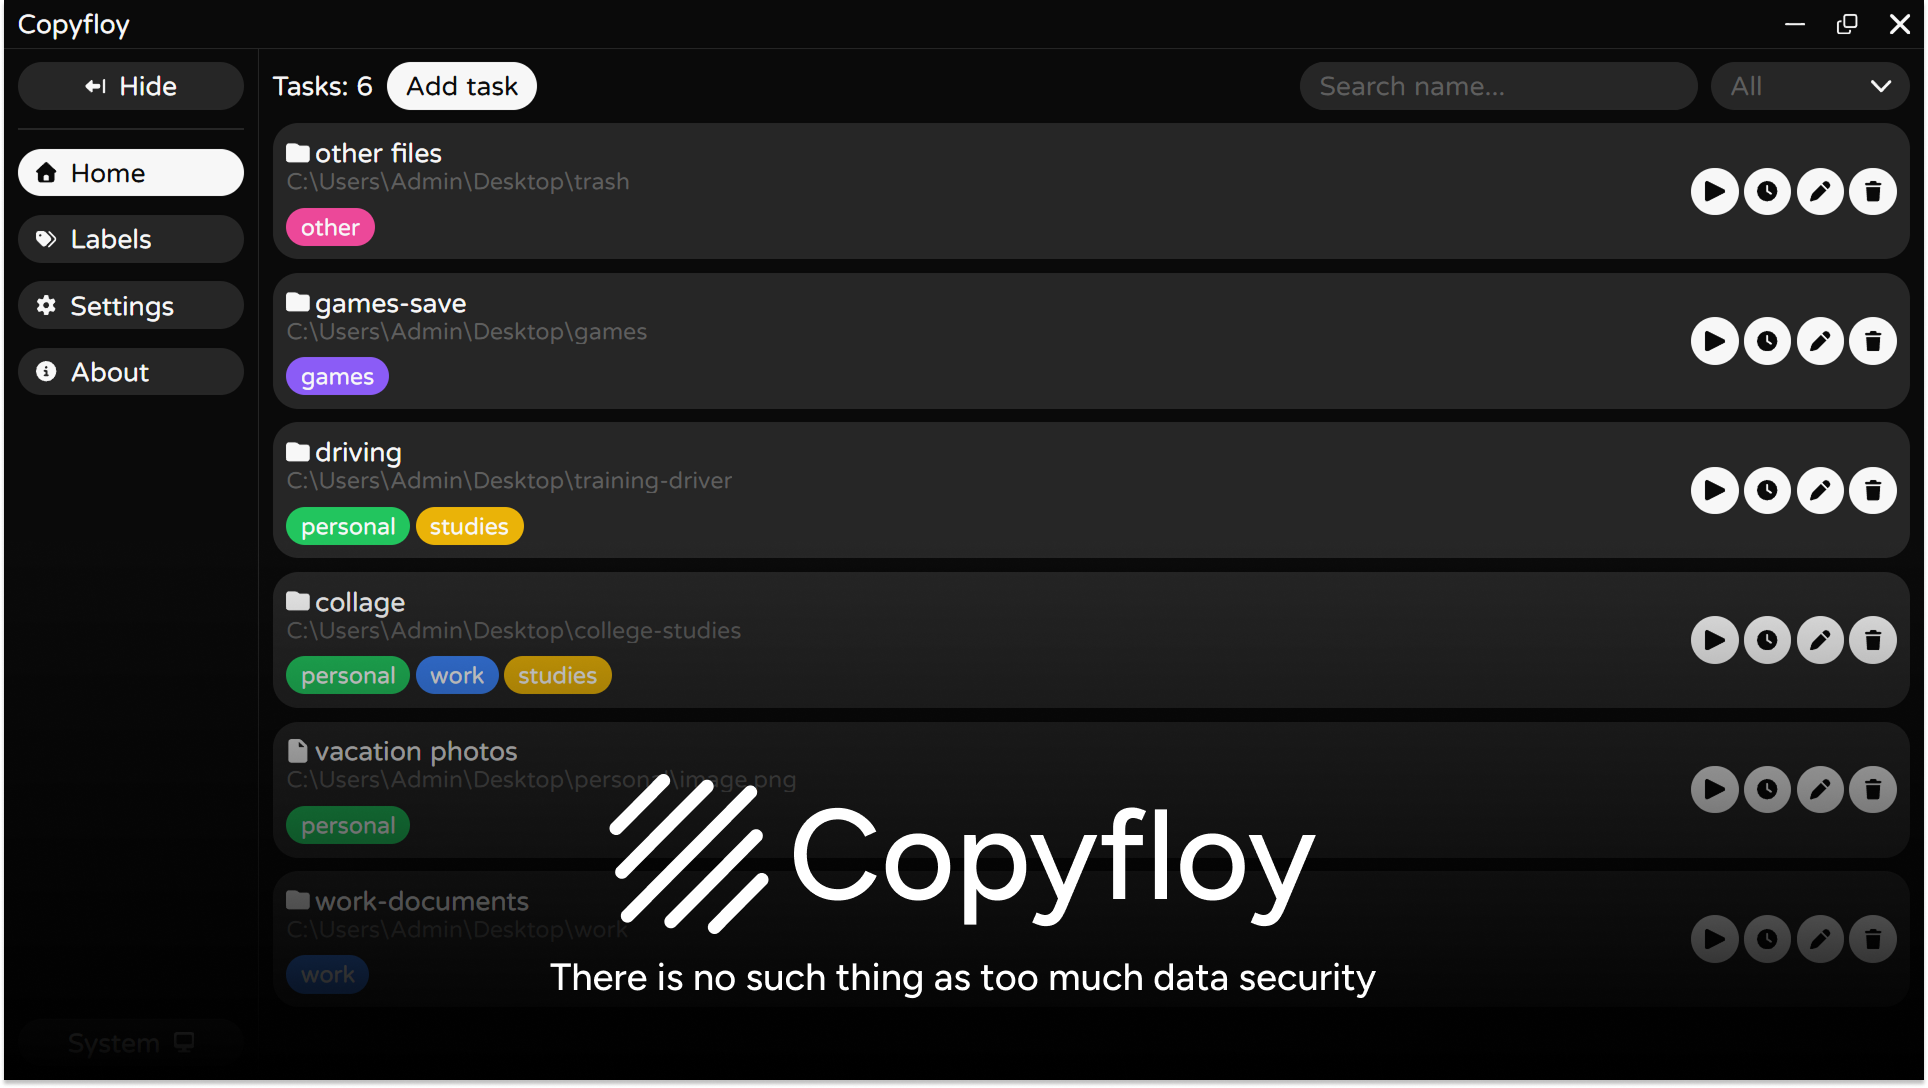
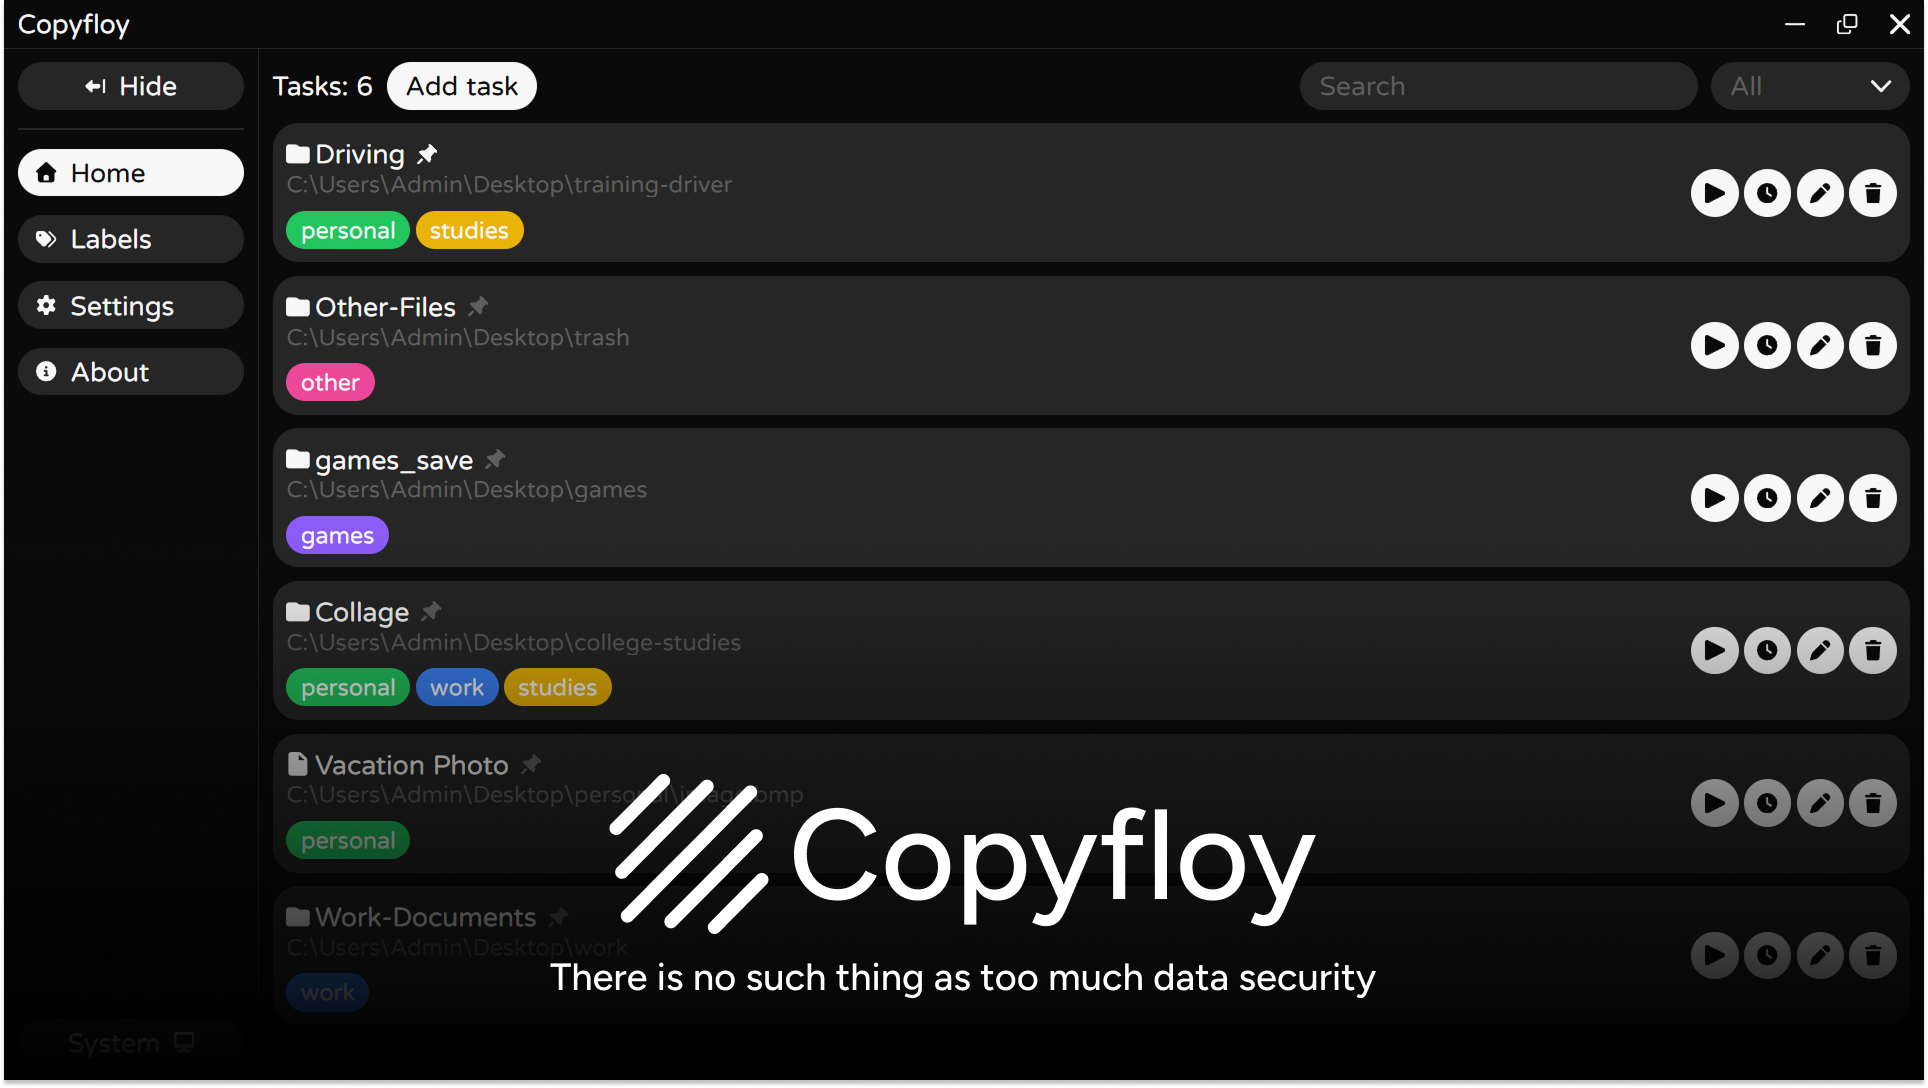
Tasks pinned (#13)
* feat(task): taskStorage improvements:
- added task pinning
- adding common types for pinning tasks
- removed transfer version

* feat(icons): add pin icon

* feat(): added task pinning functionality:
- added a new task update parameter to the `useTasks` hook
- added a task pinning button
- updated task list sorting to account for pinned tasks

* fix: sorting tasks by pinning status

* docs: update readme image

diff --git a/src/renderer/src/pages/Home/components/TaskList/index.tsx b/src/renderer/src/pages/Home/components/TaskList/index.tsx
@@ -6,24 +6,28 @@ import { TaskItem } from "../TaskItem";
 import styles from "./TaskList.module.css";
 import { ITaskList } from "./TaskList.types";
 
-export const TaskList: FC<ITaskList> = ({ items, labels, onRun, onSchedule, onEdit, onDelete }) => {
+export const TaskList: FC<ITaskList> = ({ items, labels, onRun, onSchedule, onEdit, onDelete, onPin }) => {
   if (items.length === 0) {
     return <NoData title="No tasks" icon={<CloneIcon />} />;
   }
 
   return (
     <div className={styles.container}>
-      {items.toReversed().map((item) => (
-        <TaskItem
-          key={item.id}
-          task={item}
-          labels={labels.filter((label) => item.labelsIds?.includes(label.id))}
-          onRun={() => onRun(item)}
-          onSchedule={() => onSchedule(item)}
-          onEdit={() => onEdit(item)}
-          onDelete={() => onDelete(item)}
-        />
-      ))}
+      {items
+        .toReversed()
+        .sort((first, second) => Number(Boolean(second.isPinned)) - Number(Boolean(first.isPinned)))
+        .map((item) => (
+          <TaskItem
+            key={item.id}
+            task={item}
+            labels={labels.filter((label) => item.labelsIds?.includes(label.id))}
+            onRun={() => onRun(item)}
+            onSchedule={() => onSchedule(item)}
+            onEdit={() => onEdit(item)}
+            onDelete={() => onDelete(item)}
+            onPin={() => onPin(item)}
+          />
+        ))}
     </div>
   );
 };

diff --git a/src/renderer/src/pages/Home/components/TaskItem/index.tsx b/src/renderer/src/pages/Home/components/TaskItem/index.tsx
@@ -1,6 +1,6 @@
 import { Button } from "@app/ui/Button";
 import { ButtonKind } from "@app/ui/Button/Button.types";
-import { ClockIcon, FileIcon, FolderIcon, PenIcon, PlayIcon, TrashIcon } from "@app/ui/Icons";
+import { ClockIcon, FileIcon, FolderIcon, PenIcon, PinIcon, PlayIcon, TrashIcon } from "@app/ui/Icons";
 import { LabelChip } from "@app/ui/LabelChip";
 import { ITaskItem, TaskType } from "@shared/types/tasks";
 import type { FC } from "react";
@@ -12,7 +12,7 @@ const TYPE_ICONS = {
   [TaskType.FILE]: FileIcon,
 };
 
-export const TaskItem: FC<ITaskItem> = ({ task, labels, onRun, onEdit, onSchedule, onDelete }) => {
+export const TaskItem: FC<ITaskItem> = ({ task, labels, onRun, onEdit, onSchedule, onDelete, onPin }) => {
   const TypeIcon = TYPE_ICONS[task.type];
 
   const items = [
@@ -29,6 +29,9 @@ export const TaskItem: FC<ITaskItem> = ({ task, labels, onRun, onEdit, onSchedul
           <div className={styles.section}>
             <TypeIcon className={styles.icon} />
             <div>{task.name}</div>
+            <Button kind={ButtonKind.SECONDARY} icon className={styles.pinButton} onClick={onPin}>
+              <PinIcon className={task.isPinned ? "" : styles.iconPin} />
+            </Button>
           </div>
           <div className={styles.source}>{task.source}</div>
         </div>

diff --git a/src/renderer/src/ui/Icons/index.tsx b/src/renderer/src/ui/Icons/index.tsx
@@ -173,3 +173,11 @@ export const LabelsIcon = ({ ...props }) => {
     </svg>
   );
 };
+
+export const PinIcon = ({ ...props }) => {
+  return (
+    <svg width="20" height="20" viewBox="0 0 20 20" {...props}>
+      <path d="M11.6167 0.366247C12.1049 -0.122082 12.8976 -0.122082 13.3857 0.366247L19.6339 6.61686C20.122 7.10519 20.122 7.89823 19.6339 8.38656C19.1458 8.87489 18.353 8.87489 17.8649 8.38656L17.4548 7.97636L13.62 12.4534C14.0847 14.016 13.9637 15.7349 13.2022 17.2663L13.1475 17.3757C12.9679 17.7351 12.6281 17.9852 12.2298 18.0516C11.8315 18.118 11.4293 17.9852 11.1442 17.7L2.30694 8.85536C2.02187 8.57017 1.893 8.16779 1.95548 7.76931C2.01796 7.37084 2.2718 7.03096 2.63106 6.85125L2.74041 6.79656C4.2673 6.03086 5.98555 5.90976 7.5515 6.37855L12.0267 2.54224L11.6167 2.13204C11.1286 1.64372 11.1286 0.850669 11.6167 0.36234V0.366247ZM0.370009 17.868L4.51333 13.7191L6.28234 15.4888L2.13512 19.6338C1.64698 20.1221 0.854242 20.1221 0.366104 19.6338C-0.122035 19.1454 -0.122035 18.3524 0.366104 17.864L0.370009 17.868Z" />
+    </svg>
+  );
+};

diff --git a/src/main/services/TaskService/TaskStorage.ts b/src/main/services/TaskService/TaskStorage.ts
@@ -47,7 +47,7 @@ export class TaskStorage {
 
     const isLegacyTasksFile = Array.isArray(data);
     const transfer = isLegacyTasksFile
-      ? { version: 1 as const, tasks: data, labels: [] }
+      ? { tasks: data, labels: [] }
       : this.parseTransfer(data);
 
     if (isLegacyTasksFile && transfer.tasks.length === 0) {
@@ -133,7 +133,8 @@ export class TaskStorage {
       (task.labelsIds === undefined ||
         (Array.isArray(task.labelsIds) && task.labelsIds.every((labelId) => typeof labelId === "number"))) &&
       (task.exceptions === undefined ||
-        (Array.isArray(task.exceptions) && task.exceptions.every((exception) => typeof exception === "string")))
+        (Array.isArray(task.exceptions) && task.exceptions.every((exception) => typeof exception === "string"))) &&
+      (task.isPinned === undefined || typeof task.isPinned === "boolean")
     );
   }
 

diff --git a/src/renderer/src/pages/Home/index.tsx b/src/renderer/src/pages/Home/index.tsx
@@ -24,7 +24,7 @@ export const Home: FC = () => {
     task: null,
   });
   const [isInitScheduling, setInitScheduling] = useState<ITask | null>(null);
-  const { tasks, fetchTasks, runTask, deleteTask } = useTasks();
+  const { tasks, fetchTasks, runTask, deleteTask, updateTask } = useTasks();
   const { labels } = useLabels();
   const { search, setSearch, typeFilter, setTypeFilter, filteredTasks } = useTaskFilter(tasks);
 
@@ -118,6 +118,7 @@ export const Home: FC = () => {
             onSchedule={handleScheduleTask}
             onEdit={handleEditTask}
             onDelete={(task) => handleDeleteTask(task.id)}
+            onPin={(task) => void updateTask({ ...task, isPinned: !task.isPinned })}
           />
         </div>
       </PageWrapper>

diff --git a/src/renderer/src/pages/Home/components/EditTaskFormModal/index.tsx b/src/renderer/src/pages/Home/components/EditTaskFormModal/index.tsx
@@ -91,7 +91,7 @@ export const EditTaskFormModal: FC<IEditTaskFormModal> = ({ initialData, onClose
 
   const handleSubmit = async () => {
     const schedule = initialData?.schedule || { notify: false, type: ScheduleType.DISABLED };
-    const taskData = { name, type, source, target, exceptions, labelsIds, schedule };
+    const taskData = { name, type, source, target, exceptions, labelsIds, schedule, isPinned: initialData?.isPinned };
 
     if (initialData?.id) {
       await window.api.tasks.update({ ...taskData, id: initialData.id });

diff --git a/src/renderer/src/pages/Home/components/TaskItem/TaskItem.module.css b/src/renderer/src/pages/Home/components/TaskItem/TaskItem.module.css
@@ -25,10 +25,28 @@
   gap: var(--spacing-xs);
 }
 
-.icon {
-  fill: var(--content-primary);
+.icon,
+.iconPin {
   width: 14px;
   height: 14px;
+}
+
+.icon {
+  fill: var(--content-primary);
+}
+
+.iconPin {
+  fill: var(--content-gray-light) !important;
+}
+
+.pinButton {
+  width: 20px;
+  min-width: 20px !important;
+  height: 20px;
+  min-height: 20px !important;
+  max-height: 20px !important;
+  padding: 0;
+  background: transparent;
 }
 
 .source {

diff --git a/src/renderer/src/hooks/useTasks.ts b/src/renderer/src/hooks/useTasks.ts
@@ -18,6 +18,11 @@ export const useTasks = () => {
     setTasks(updatedTasks);
   };
 
+  const updateTask = async (task: ITask) => {
+    const updatedTasks = await window.api.tasks.update(task);
+    setTasks(updatedTasks);
+  };
+
   useEffect(() => {
     void window.api.tasks.get().then(setTasks);
   }, []);
@@ -27,5 +32,6 @@ export const useTasks = () => {
     fetchTasks,
     runTask,
     deleteTask,
+    updateTask,
   };
 };

diff --git a/src/shared/types/tasks.ts b/src/shared/types/tasks.ts
@@ -8,6 +8,7 @@ export interface ITaskItem {
   onSchedule: () => void;
   onEdit: () => void;
   onDelete: () => void;
+  onPin: () => void;
 }
 
 export interface ITask {
@@ -19,6 +20,7 @@ export interface ITask {
   schedule?: IScheduleConfig;
   exceptions?: string[];
   labelsIds?: number[];
+  isPinned?: boolean;
 }
 
 export enum TaskType {

diff --git a/src/renderer/src/pages/Home/components/TaskList/TaskList.types.ts b/src/renderer/src/pages/Home/components/TaskList/TaskList.types.ts
@@ -8,4 +8,5 @@ export interface ITaskList {
   onSchedule: (task: ITask) => void;
   onEdit: (task: ITask) => void;
   onDelete: (task: ITask) => void;
+  onPin: (task: ITask) => void;
 }
